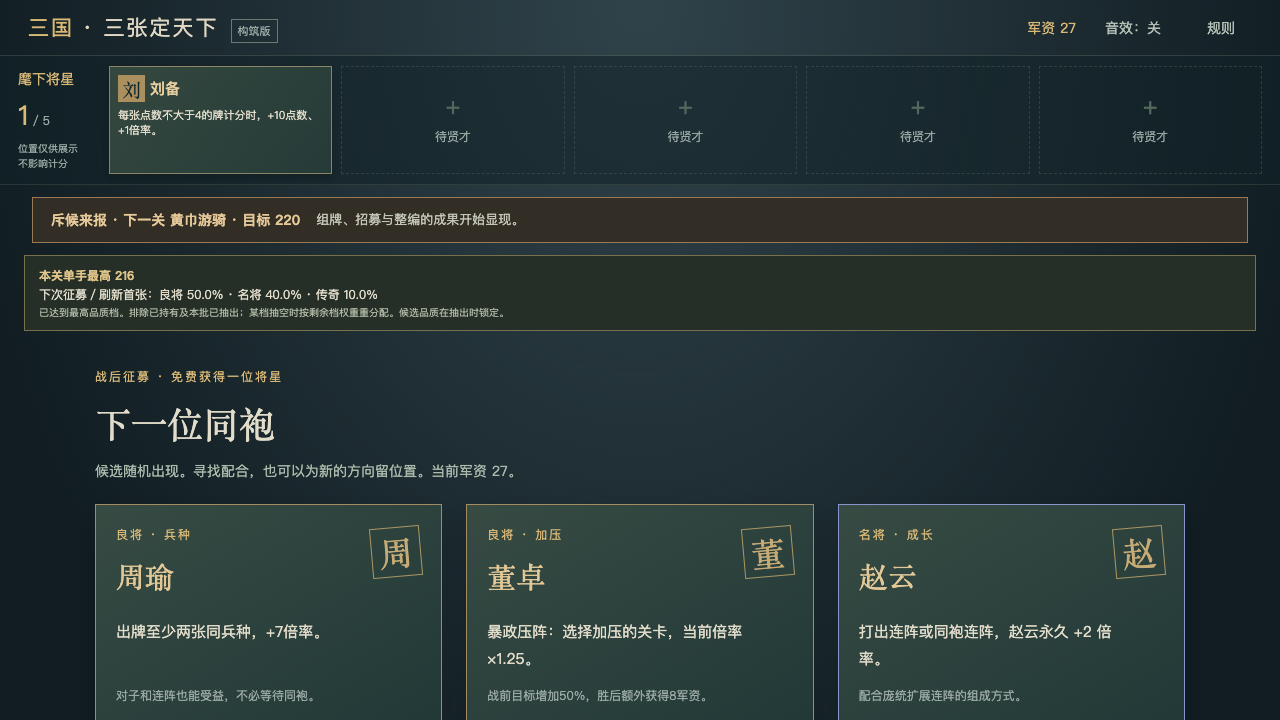
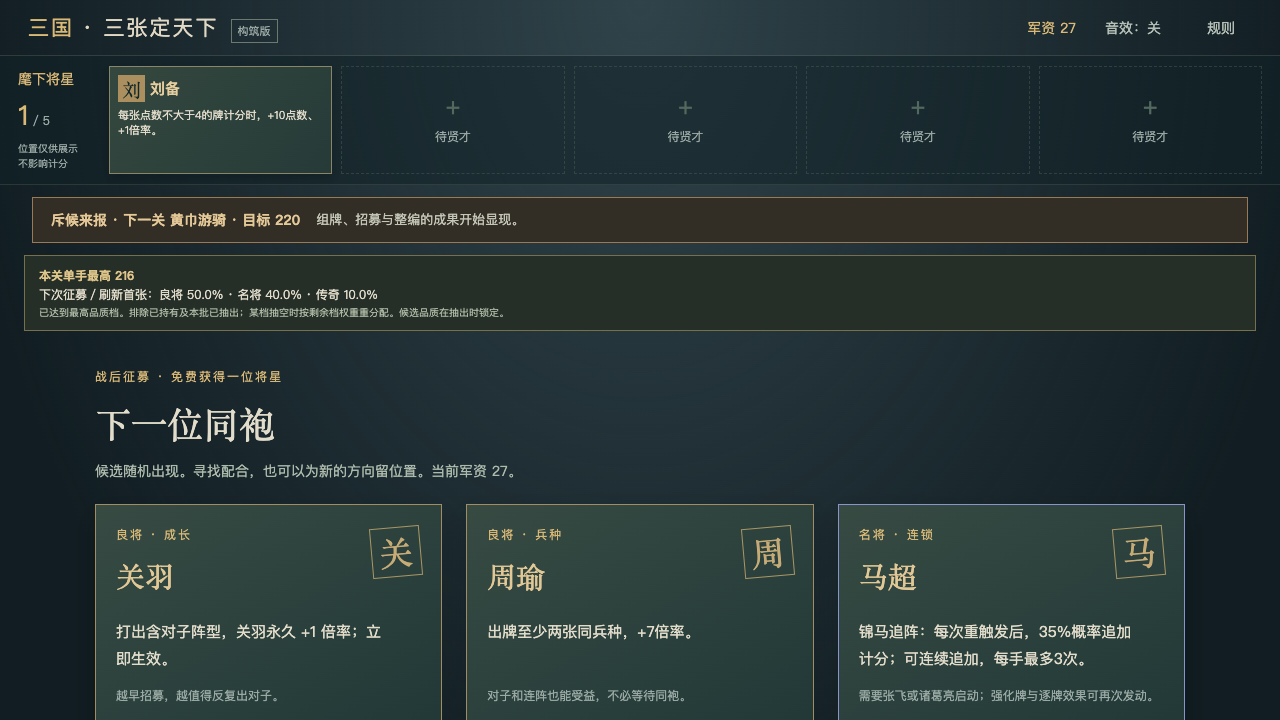
feat: create three build engines

diff --git a/tests/forge.test.ts b/tests/forge.test.ts
@@ -1,14 +1,15 @@
 import {test} from 'node:test';
 import assert from 'node:assert/strict';
 import {newForge,forgeAction,previewForge,forgeView,isForgeState,loadForge,saveForge,copy,type ForgeState,type ForgeAction,type ArmyCard} from '@three-card/core';
-import {COMPANIONS,COMPANION_IDS,RARITY_NAMES,STAGES,type CompanionId} from '@three-card/content';
+import {ALL_COMPANION_IDS,COMPANIONS,COMPANION_IDS,RARITY_NAMES,STAGES,type CompanionId} from '@three-card/content';
 const act=(s:ForgeState,a:Omit<ForgeAction,'seq'>)=>{const r=forgeAction(s,{...a,seq:s.seq});assert.equal(r.error,undefined);assert.ok(isForgeState(r.state),`invalid after ${a.type} ${r.state.phase}`);return r.state;};
 function fixture(ids:CompanionId[],cards:ArmyCard[]){let s=newForge('fixture');s.phase='prepare';s.companions=ids.map(id=>({id,growth:0}));s=act(s,{type:'begin'});for(const c of cards){const old=s.army.find(x=>x.id===c.id)!;Object.assign(old,c);}s.hand=cards.map(c=>c.id);s.draw=s.army.filter(c=>!s.hand.includes(c.id)).map(c=>c.id);s.discard=[];return s;}
 const c=(id:string,rank:number,suit:ArmyCard['suit']='spear',bonus=0):ArmyCard=>({id,rank,suit,bonus});
 const pair=[c('spear-7',7),c('cavalry-7',7,'cavalry'),c('bow-2',2,'bow')];
 const straight=[c('spear-1',1),c('cavalry-2',2,'cavalry'),c('bow-3',3,'bow')];
-test('22 distinct components and growth/retrigger compose exactly',()=>{assert.equal(COMPANION_IDS.length,22);const s=fixture(['guanyu','zhangfei','huangzhong','blade'],pair),ids=s.hand;const before=copy(s);const p=previewForge(s,ids);assert.equal(p.chips,77);assert.equal(p.mult,9);assert.equal(p.total,693);assert.deepEqual(s,before);assert.deepEqual(previewForge(s,ids),p);const next=act(s,{type:'play',ids});assert.equal(next.companions[0].growth,1);assert.equal(next.result?.total,693);assert.equal(next.hands,3);assert.equal(forgeAction(next,{seq:s.seq,type:'play',ids}).state,next);});
-test('all 22 stable entries are generals with unified rarity names',()=>{const names=Object.values(COMPANIONS).map(c=>c.name);assert.equal(new Set(names).size,22);assert.deepEqual(COMPANION_IDS.map(id=>COMPANIONS[id].name),['马超','陆逊','关羽','张飞','刘备','周瑜','赵云','黄忠','诸葛亮','曹操','孙权','吕布','貂蝉','司马懿','太史慈','张辽','公孙瓒','庞统','董卓','鲁肃','荀彧','孙策']);assert.deepEqual(RARITY_NAMES,{common:'良将',rare:'名将',legendary:'传奇'});});
+test('stable legacy effects still compose exactly',()=>{assert.equal(ALL_COMPANION_IDS.length,22);const s=fixture(['guanyu','zhangfei','huangzhong','blade'],pair),ids=s.hand;const before=copy(s);const p=previewForge(s,ids);assert.equal(p.chips,77);assert.equal(p.mult,9);assert.equal(p.total,693);assert.deepEqual(s,before);assert.deepEqual(previewForge(s,ids),p);const next=act(s,{type:'play',ids});assert.equal(next.companions[0].growth,1);assert.equal(next.result?.total,693);assert.equal(next.hands,3);assert.equal(forgeAction(next,{seq:s.seq,type:'play',ids}).state,next);});
+test('12 active generals form three engines while all 22 stable ids remain loadable',()=>{const names=Object.values(COMPANIONS).map(c=>c.name);assert.equal(new Set(names).size,22);assert.equal(COMPANION_IDS.length,12);assert.deepEqual(COMPANION_IDS.map(id=>COMPANIONS[id].name),['关羽','张飞','马超','陆逊','刘备','诸葛亮','曹操','荀彧','周瑜','貂蝉','孙策','赵云']);assert.deepEqual(RARITY_NAMES,{common:'良将',rare:'名将',legendary:'传奇'});});
+test('three complete engines prefer different hands from the same six cards',()=>{const hand=['spear-8','cavalry-8','scheme-1','scheme-4','scheme-7','bow-2'],best=(ids:CompanionId[])=>{const s=newForge('engine');s.phase='battle';s.companions=ids.map(id=>({id,growth:0}));s.hand=hand;s.draw=s.army.filter(c=>!hand.includes(c.id)).map(c=>c.id);let pick:string[]=[],score=-1;for(let i=0;i<4;i++)for(let j=i+1;j<5;j++)for(let k=j+1;k<6;k++){const chosen=[hand[i],hand[j],hand[k]],total=previewForge(s,chosen).total;if(total>score){score=total;pick=chosen;}}return pick;};assert.deepEqual(best(['guanyu','zhangfei','pursuit','chain']),['spear-8','cavalry-8','scheme-7']);assert.deepEqual(best(['liubei','zhugeliang','caocao','abacus']),['scheme-1','scheme-4','bow-2']);assert.deepEqual(best(['zhouyu','diaochan','oath','zhaoyun']),['scheme-1','scheme-4','scheme-7']);});
 test('low-card effects repeat on last card, once per scoring event',()=>{const s=fixture(['liubei','zhugeliang'],straight);const p=previewForge(s,s.hand);assert.equal(p.chips,49);assert.equal(p.mult,7);assert.equal(p.total,343);});
 test('straight growth and flexible sequence rules',()=>{const s=fixture(['zhaoyun','scroll'],[c('spear-1',1),c('cavalry-3',3,'cavalry'),c('bow-5',5,'bow')]);assert.equal(previewForge(s,s.hand).category,2);assert.equal(previewForge(s,s.hand).growth.zhaoyun,2);s.companions[0].growth=4;assert.equal(previewForge(s,s.hand).growth.zhaoyun,6);});
 test('component display order cannot change additive and multiplicative result',()=>{const s=fixture(['zhouyu','oath'],[c('spear-1',1),c('spear-4',4),c('spear-8',8)]),reversed=copy(s);reversed.companions.reverse();assert.equal(previewForge(s,s.hand).total,previewForge(reversed,reversed.hand).total);});
@@ -21,9 +22,9 @@ test('pressure, public boss rules and last-hand victory precedence',()=>{let s=n
 });
 test('zero hands below target loses after showing result',()=>{let s=fixture([],straight);s.hands=1;s.target=9999;s=act(s,{type:'play',ids:s.hand});assert.equal(s.phase,'result');s=act(s,{type:'next'});assert.equal(s.phase,'defeat');});
 test('every permanent edit survives next stage with unique physical IDs',()=>{
- for(const edit of ['copy','remove','rank','enhance','suit','level'] as const){let s=newForge('edit');s.phase='forge';const before=copy(s.army);s=act(s,{type:'edit',edit,cardId:'spear-1',suit:'bow',category:1});assert.equal(s.phase,'shop');if(edit==='copy'){assert.equal(s.army.length,37);assert.equal(new Set(s.army.map(c=>c.id)).size,37);}if(edit==='remove')assert.equal(s.army.length,35);if(edit==='rank')assert.equal(s.army[0].rank,3);if(edit==='enhance')assert.equal(s.army[0].bonus,12);if(edit==='suit')assert.equal(s.army[0].suit,'bow');if(edit==='level')assert.equal(s.levels[1],1);const after=copy(s.army);s=act(s,{type:'depart'});s=act(s,{type:'begin'});assert.deepEqual(s.army,after);if(edit!=='level')assert.notDeepEqual(s.army,before);}
+ for(const edit of ['copy','remove','rank','enhance','suit','level'] as const){let s=newForge('edit');s.phase='forge';s.pendingEdit=edit;const before=copy(s.army);s=act(s,{type:'edit',edit,cardId:'spear-1',suit:'bow',category:1});assert.equal(s.phase,'shop');if(edit==='copy'){assert.equal(s.army.length,37);assert.equal(new Set(s.army.map(c=>c.id)).size,37);}if(edit==='remove')assert.equal(s.army.length,35);if(edit==='rank')assert.equal(s.army[0].rank,3);if(edit==='enhance')assert.equal(s.army[0].bonus,12);if(edit==='suit')assert.equal(s.army[0].suit,'bow');if(edit==='level')assert.equal(s.levels[1],1);const after=copy(s.army);s=act(s,{type:'depart'});s=act(s,{type:'begin'});assert.deepEqual(s.army,after);if(edit!=='level')assert.notDeepEqual(s.army,before);}
 });
-test('invalid edit is atomic, copy preserves enhancement and capacity limits',()=>{let s=newForge('edit');s.phase='forge';s.army[0].bonus=24;const bad=forgeAction(s,{seq:0,type:'edit',edit:'suit',cardId:'spear-1',suit:'spear'});assert.equal(bad.state,s);s=act(s,{type:'edit',edit:'copy',cardId:'spear-1'});assert.equal(s.army.at(-1)?.bonus,24);s.phase='forge';s.army=s.army.slice(0,12);assert.equal(forgeAction(s,{seq:s.seq,type:'edit',edit:'remove',cardId:s.army[0].id}).state,s);});
+test('invalid edit is atomic, copy preserves enhancement and capacity limits',()=>{let s=newForge('edit');s.phase='forge';s.army[0].bonus=24;s.pendingEdit='suit';const bad=forgeAction(s,{seq:0,type:'edit',edit:'suit',cardId:'spear-1',suit:'spear'});assert.equal(bad.state,s);s.pendingEdit='copy';s=act(s,{type:'edit',edit:'copy',cardId:'spear-1'});assert.equal(s.army.at(-1)?.bonus,24);s.phase='forge';s.pendingEdit='remove';s.army=s.army.slice(0,12);assert.equal(forgeAction(s,{seq:s.seq,type:'edit',edit:'remove',cardId:s.army[0].id}).state,s);});
 test('recruit capacity, explicit replacement, sell growth and refresh costs',()=>{let s=newForge('market');s.phase='recruit';s.recruits=['guanyu'];s.companions=['liubei','zhouyu','sunquan','caocao','horse'].map(id=>({id:id as CompanionId,growth:0}));assert.equal(forgeAction(s,{seq:0,type:'recruit',id:'guanyu'}).state,s);s=act(s,{type:'recruit',id:'guanyu',replace:'horse'});s=act(s,{type:'edit',id:'skip'});s.gold=40;s.companions.find(c=>c.id==='guanyu')!.growth=8;s=act(s,{type:'sell',id:'guanyu'});assert.equal(s.gold,45);assert.equal(s.companions.length,4);s=act(s,{type:'refresh'});assert.equal(s.gold,42);assert.equal(s.refreshes,1);s=act(s,{type:'refresh'});assert.equal(s.gold,38);s.gold=0;assert.equal(forgeAction(s,{seq:s.seq,type:'buy',id:s.offers[0].id}).state,s);});
 test('new save namespace restores rewards and stable former treasure ids without touching v1',()=>{const map=new Map<string,string>([['three-card:v1:0','old-save']]);const storage={get:(k:string)=>map.get(k)??null,set:(k:string,v:string)=>{map.set(k,v);}};let s=newForge('save');saveForge(storage,s);const old=copy(s);s=act(s,{type:'starter',id:'liubei'});s.companions=['pursuit','chain','blade','horse','granary'].map(id=>({id:id as CompanionId,growth:0}));saveForge(storage,s);assert.deepEqual(loadForge(storage).state,s);assert.deepEqual(loadForge(storage).state?.companions.map(c=>COMPANIONS[c.id].name),['马超','陆逊','太史慈','公孙瓒','鲁肃']);map.set('three-card:forge:v8:1','broken');assert.deepEqual(loadForge(storage).state,old);assert.ok(loadForge(storage).notice);assert.equal(map.get('three-card:v1:0'),'old-save');const broken=copy(s) as any;broken.army[1].id=broken.army[0].id;assert.equal(isForgeState(broken),false);broken.contentVersion='0.1.0';assert.equal(isForgeState(broken),false);});
 test('replay reproduces draws, offers and scoring; view excludes future order',()=>{let a=newForge('repeat'),b=newForge('repeat');for(const cmd of [{type:'starter',id:'guanyu'},{type:'begin'}] as Omit<ForgeAction,'seq'>[]){a=act(a,cmd);b=act(b,cmd);}const ids=a.hand.slice(0,3);a=act(a,{type:'play',ids});b=act(b,{type:'play',ids});assert.deepEqual(a,b);assert.equal('rng' in forgeView(a),false);assert.equal('draw' in forgeView(a),false);});

diff --git a/tests/forge-random-edit.test.ts b/tests/forge-random-edit.test.ts
@@ -1,63 +1,16 @@
 import {test} from 'node:test';
 import assert from 'node:assert/strict';
 import {copy,forgeAction,isForgeState,newForge,type ForgeAction,type ForgeState} from '@three-card/core';
+import type {ForgeEdit} from '@three-card/content';
 
-const act=(state:ForgeState,action:Omit<ForgeAction,'seq'>)=>{
- const result=forgeAction(state,{...action,seq:state.seq});
- assert.equal(result.error,undefined);
- assert.ok(isForgeState(result.state));
- return result.state;
-};
-
+const act=(state:ForgeState,action:Omit<ForgeAction,'seq'>)=>{const result=forgeAction(state,{...action,seq:state.seq});assert.equal(result.error,undefined);assert.ok(isForgeState(result.state));return result.state;};
 function forge(seed:string){const state=newForge(seed);state.phase='forge';return state;}
+function resolve(state:ForgeState){const edit=state.pendingEdit!;if(edit==='level')return act(state,{type:'edit',edit,category:2});const card=state.army.find(c=>edit!=='rank'||c.rank<9)!;return act(state,{type:'edit',edit,cardId:card.id,...edit==='suit'?{suit:card.suit==='scheme'?'spear':'scheme'}:{}});}
 
-test('random post-battle edit is deterministic and applies exactly one positive result',()=>{
- const seen=new Set<string>();
- for(let i=0;i<400;i++){
-  const before=forge(`random-edit-${i}`),snapshot=copy(before);
-  const after=act(before,{type:'random-edit'}),again=act(copy(snapshot),{type:'random-edit'});
-  assert.deepEqual(after,again);
-  assert.equal(after.phase,'shop');
-  assert.equal(after.stats.edits,1);
-  assert.ok(after.lastEdit);
-  assert.equal(after.offers.length,3);
-  const kind=after.lastEdit!.split('：')[0];seen.add(kind);
-  const oldCards=new Map(snapshot.army.map(c=>[c.id,c]));
-  const changedCards=after.army.filter(c=>{const old=oldCards.get(c.id);return !old||old.rank!==c.rank||old.bonus!==c.bonus||old.suit!==c.suit;});
-  const levelGain=after.levels.reduce((a,b)=>a+b,0)-snapshot.levels.reduce((a,b)=>a+b,0);
-  if(kind==='军师募兵'){assert.equal(after.army.length,snapshot.army.length+1);assert.equal(changedCards.length,1);assert.ok(changedCards[0].id.startsWith('copy-'));assert.equal(levelGain,0);}
-  if(kind==='军师练兵'){assert.equal(after.army.length,snapshot.army.length);assert.equal(changedCards.length,1);assert.ok(changedCards[0].rank>oldCards.get(changedCards[0].id)!.rank);assert.equal(levelGain,0);}
-  if(kind==='军师精锐'){assert.equal(after.army.length,snapshot.army.length);assert.equal(changedCards.length,1);assert.equal(changedCards[0].bonus,oldCards.get(changedCards[0].id)!.bonus+12);assert.equal(levelGain,0);}
-  if(kind==='军师研习'){assert.equal(after.army.length,snapshot.army.length);assert.equal(changedCards.length,0);assert.equal(levelGain,1);}
- }
- assert.deepEqual([...seen].sort(),['军师募兵','军师研习','军师精锐','军师练兵'].sort());
-});
+test('random edit reveals one saved type, then player target applies exactly once',()=>{const seen=new Set<ForgeEdit>();for(let i=0;i<500;i++){const before=forge(`target-edit-${i}`),revealed=act(before,{type:'random-edit'}),again=act(copy(before),{type:'random-edit'});assert.deepEqual(revealed,again);assert.equal(revealed.phase,'forge');assert.ok(revealed.pendingEdit);assert.equal(revealed.stats.edits,0);seen.add(revealed.pendingEdit!);const after=resolve(revealed);assert.equal(after.phase,'shop');assert.equal(after.pendingEdit,null);assert.equal(after.stats.edits,1);assert.ok(after.lastEdit);assert.equal(after.offers.length,3);}assert.deepEqual([...seen].sort(),['remove','copy','rank','enhance','suit','level'].sort());});
 
-test('ineligible edit types leave the random pool and skip applies no edit',()=>{
- let full=forge('full-ranks');
- full.army=Array.from({length:60},(_,i)=>({...full.army[i%full.army.length],id:`full-${i}`,rank:9}));
- const before=copy(full),after=act(full,{type:'random-edit'});
- assert.equal(after.army.length,60);
- assert.ok(after.lastEdit?.startsWith('军师精锐')||after.lastEdit?.startsWith('军师研习'));
- assert.ok(after.army.some((c,i)=>c.bonus>before.army[i].bonus)||after.levels.some((n,i)=>n>before.levels[i]));
+test('revealed edit rejects reroll, skip and mismatched action atomically',()=>{const revealed=act(forge('locked-edit'),{type:'random-edit'});for(const action of [{type:'random-edit'},{type:'edit',id:'skip'},{type:'edit',edit:revealed.pendingEdit==='level'?'copy':'level',category:1,cardId:revealed.army[0].id}] as Omit<ForgeAction,'seq'>[]){const result=forgeAction(revealed,{...action,seq:revealed.seq});assert.ok(result.error);assert.equal(result.state,revealed);}});
 
- const skipped=forge('skip-edit');
- const result=act(skipped,{type:'edit',id:'skip'}),replayed=act(copy(skipped),{type:'edit',id:'skip'});
- assert.deepEqual(result,replayed);
- assert.equal(result.gold,skipped.gold+3);
- assert.equal(result.stats.edits,0);
- assert.equal(result.lastEdit,null);
-});
+test('ineligible types leave reveal pool and skipping before reveal gives gold',()=>{let full=forge('full-ranks');full.army=Array.from({length:60},(_,i)=>({...full.army[i%full.army.length],id:`full-${i}`,rank:9}));for(let i=0;i<100;i++){const state=copy(full);state.seed=`full-${i}`;state.rng=newForge(state.seed).rng;const revealed=act(state,{type:'random-edit'});assert.ok(!['copy','rank'].includes(revealed.pendingEdit!));}const skipped=act(forge('skip-edit'),{type:'edit',id:'skip'});assert.equal(skipped.phase,'shop');assert.equal(skipped.gold,15);assert.equal(skipped.stats.edits,0);});
 
-test('random edit rejects wrong phase and duplicate sequence atomically',()=>{
- const state=newForge('invalid-random-edit'),snapshot=copy(state);
- const invalid=forgeAction(state,{seq:state.seq,type:'random-edit'});
- assert.ok(invalid.error);
- assert.equal(invalid.state,state);
- assert.deepEqual(state,snapshot);
-
- const first=act(forge('duplicate-random-edit'),{type:'random-edit'});
- const duplicate=forgeAction(first,{seq:first.seq-1,type:'random-edit'});
- assert.ok(duplicate.error);
- assert.equal(duplicate.state,first);
-});
+test('old v8 state without pendingEdit remains loadable',()=>{const state:any=newForge('old-state');delete state.pendingEdit;assert.equal(isForgeState(state),true);assert.equal(state.pendingEdit,null);});

diff --git a/tests/browser/forge.spec.ts b/tests/browser/forge.spec.ts
@@ -3,13 +3,14 @@ import {test,expect,type Page} from '@playwright/test';
 import type {ForgeAction,ForgeView} from '@three-card/core';
 import {forgeStrategy,bestForgeHand} from '../../tools/forge-strategy';
 const read=(page:Page)=>page.evaluate(()=>JSON.parse((window as any).render_game_to_text())) as Promise<{home:boolean;paused:boolean;view:ForgeView}>;
-async function click(page:Page,action:string){await page.locator(`[data-action="${action}"]`).click();if(!action.startsWith('card:')&&!action.startsWith('edit-card:'))await page.waitForTimeout(180);}
+async function click(page:Page,action:string){const immediate=action.startsWith('card:');if(!immediate)await page.waitForTimeout(180);await page.locator(`[data-action="${action}"]`).click();if(!immediate)await page.waitForTimeout(180);}
 async function begin(page:Page,seed:string,starter='liubei'){await page.goto('http://127.0.0.1:4173');await page.locator('#seed').fill(seed);await click(page,'new');await click(page,'starter:'+starter);await click(page,'begin:normal');}
 async function uiAction(page:Page,a:Omit<ForgeAction,'seq'>){
  if((a.type==='play'||a.type==='discard')){for(const id of a.ids!)await click(page,'card:'+id);await click(page,a.type);}
  else if(a.type==='begin')await click(page,'begin:normal');
  else if(a.type==='starter')await click(page,'starter:'+a.id);
  else if(a.type==='recruit'||a.type==='buy'){await click(page,a.type+':'+a.id);if(a.replace)await click(page,'replace:'+a.replace);}
+ else if(a.type==='edit'){if(a.edit==='level')await click(page,'apply-level:'+a.category);else if(a.edit==='suit'){await click(page,'edit-card:'+a.cardId);await click(page,`apply-suit:${a.cardId}:${a.suit}`);}else await click(page,'edit-card:'+a.cardId);}
  else {if(a.type==='bank'&&await page.locator('[data-action=skip-animation]').count())await click(page,'skip-animation');await click(page,a.type);}
 }
 test('build UI, preview parity, one random edit and independent resume',async({page})=>{
@@ -17,7 +18,7 @@ test('build UI, preview parity, one random edit and independent resume',async({p
  let v=(await read(page)).view;const best=bestForgeHand(v);for(const id of best.ids)await click(page,'card:'+id);await expect(page.locator('.total b')).toHaveText(new Intl.NumberFormat('zh-CN',{maximumFractionDigits:2}).format(best.score));await expect(page.locator('.point-breakdown')).toContainText('阵牌');await expect(page.locator('.point-breakdown')).toContainText('重触发');const pointSum=Number(await page.locator('.point-breakdown').getAttribute('data-points-sum')),displayedPoints=Number((await page.locator('.equation span').first().locator('b').innerText()).replaceAll(',',''));expect(pointSum).toBe(displayedPoints);await page.screenshot({path:'docs/evidence/forge-battle-1440.png'});
  await page.setViewportSize({width:1280,height:720});expect(await page.locator('[data-action=play]').evaluate(el=>el.getBoundingClientRect().bottom<=innerHeight)).toBe(true);expect(await page.evaluate(()=>document.documentElement.scrollWidth<=innerWidth)).toBe(true);await page.screenshot({path:'docs/evidence/forge-battle-1280.png'});await click(page,'play');expect((await read(page)).view.result!.total).toBe(best.score);
  for(let n=0;n<20;n++){v=(await read(page)).view;if(v.phase==='recruit')break;await uiAction(page,counterplayStrategy(v,'liubei'));}v=(await read(page)).view;expect(v.phase).toBe('recruit');const before=v;await page.reload();await click(page,'continue');expect((await read(page)).view).toEqual(before);await page.screenshot({path:'docs/evidence/forge-recruit.png'});
- await click(page,'recruit:'+v.recruits[0]);expect(await page.locator('[data-action=random-edit]').count()).toBe(1);expect(await page.locator('.edit-tabs').count()).toBe(0);await page.screenshot({path:'docs/evidence/forge-random-edit.png'});const beforeEdit=(await read(page)).view;await click(page,'random-edit');v=(await read(page)).view;expect(v.phase).toBe('shop');expect(v.stats.edits).toBe(beforeEdit.stats.edits+1);expect(v.lastEdit).toBeTruthy();await expect(page.locator('.random-edit-result')).toContainText(v.lastEdit!);await page.screenshot({path:'docs/evidence/forge-shop.png'});const editedArmy=structuredClone(v.army),editedLevels=[...v.levels];await click(page,'depart');await click(page,'begin:normal');v=(await read(page)).view;expect(v.army).toEqual(editedArmy);expect(v.levels).toEqual(editedLevels);expect(v.lastEdit).toBeNull();expect(errors).toEqual([]);
+ await click(page,'recruit:'+v.recruits[0]);expect(await page.locator('[data-action=random-edit]').count()).toBe(1);expect(await page.locator('.edit-tabs').count()).toBe(0);await page.screenshot({path:'docs/evidence/forge-random-edit.png'});const beforeEdit=(await read(page)).view;await click(page,'random-edit');v=(await read(page)).view;expect(v.phase).toBe('forge');expect(v.pendingEdit).toBeTruthy();expect(v.stats.edits).toBe(beforeEdit.stats.edits);await page.screenshot({path:'docs/evidence/forge-edit-target.png'});await uiAction(page,forgeStrategy(v,'liubei'));v=(await read(page)).view;expect(v.phase).toBe('shop');expect(v.stats.edits).toBe(beforeEdit.stats.edits+1);expect(v.lastEdit).toBeTruthy();await expect(page.locator('.random-edit-result')).toContainText(v.lastEdit!);await page.screenshot({path:'docs/evidence/forge-shop.png'});const editedArmy=structuredClone(v.army),editedLevels=[...v.levels];await click(page,'depart');await click(page,'begin:normal');v=(await read(page)).view;expect(v.army).toEqual(editedArmy);expect(v.levels).toEqual(editedLevels);expect(v.lastEdit).toBeNull();expect(errors).toEqual([]);
 });
 test('eight-stage campaign uses public UI and reaches victory',async({page})=>{
  test.setTimeout(120000);await begin(page,'forge-0');let replaced=false;for(let n=0;n<200;n++){const v=(await read(page)).view;if(['victory','defeat'].includes(v.phase))break;const a=counterplayStrategy(v,'liubei');if(a.replace)replaced=true;await uiAction(page,a);}expect((await read(page)).view.phase).toBe('victory');expect((await read(page)).view.stats.cleared).toBe(8);await page.screenshot({path:'docs/evidence/forge-victory.png'});console.log('Explicit replacement exercised:',replaced);

diff --git a/tools/smoke-forge.ts b/tools/smoke-forge.ts
@@ -10,8 +10,8 @@ const userData=await mkdtemp(path.join(tmpdir(),'three-card-forge-'));
 const launch=()=>electron.launch({...(process.env.THREE_CARD_EXECUTABLE?{executablePath:process.env.THREE_CARD_EXECUTABLE,args:[]}:{args:['apps/desktop/main.cjs']}),env:{...process.env,THREE_CARD_USER_DATA:userData}});
 let app=await launch();let page=await app.firstWindow();const errors:string[]=[];page.on('pageerror',e=>errors.push(e.message));
 const read=()=>page.evaluate(()=>JSON.parse((window as any).render_game_to_text()).view) as Promise<ForgeView>;
-const click=async(action:string)=>{await page.locator(`[data-action="${action}"]`).click();if(!action.startsWith('card:'))await page.waitForTimeout(180);};
-async function act(a:Omit<ForgeAction,'seq'>){if((a.type==='play'||a.type==='discard')){for(const id of a.ids!)await click('card:'+id);await click(a.type);}else if(a.type==='begin')await click('begin:normal');else if(a.type==='recruit'||a.type==='buy'){await click(a.type+':'+a.id);if(a.replace)await click('replace:'+a.replace);}else{if(a.type==='bank'&&await page.locator('[data-action=skip-animation]').count())await click('skip-animation');await click(a.type);}}
+const click=async(action:string)=>{const resume=page.locator('[data-action="resume"]');if(action!=='resume'&&await resume.isVisible().catch(()=>false)){await resume.click();await page.waitForTimeout(180);}const immediate=action.startsWith('card:');if(!immediate)await page.waitForTimeout(180);await page.locator(`[data-action="${action}"]`).click();if(!immediate)await page.waitForTimeout(180);};
+async function act(a:Omit<ForgeAction,'seq'>){if((a.type==='play'||a.type==='discard')){for(const id of a.ids!)await click('card:'+id);await click(a.type);}else if(a.type==='begin')await click('begin:normal');else if(a.type==='recruit'||a.type==='buy'){await click(a.type+':'+a.id);if(a.replace)await click('replace:'+a.replace);}else if(a.type==='edit'){if(a.edit==='level')await click('apply-level:'+a.category);else if(a.edit==='suit'){await click('edit-card:'+a.cardId);await click(`apply-suit:${a.cardId}:${a.suit}`);}else await click('edit-card:'+a.cardId);}else{if(a.type==='bank'&&await page.locator('[data-action=skip-animation]').count())await click('skip-animation');await click(a.type);}}
 try{
  await page.waitForSelector('#seed');
  await page.locator('#seed').fill('forge-0');await click('new');await click('starter:liubei');await click('begin:normal');
@@ -23,7 +23,7 @@ try{
  assert.equal((await read()).phase,'victory');await page.screenshot({path:'docs/evidence/forge-desktop-victory.png'});
  const completed=await read();await click('extend');
  for(let i=0;i<40;i++){const v=await read();if(v.phase==='battle')break;await act(counterplayStrategy(v,'liubei'));}
- const challenge=await read();assert.equal(challenge.challenge,1);assert.equal(challenge.stats.cleared,8);assert.equal(challenge.stats.edits,completed.stats.edits+1);for(const card of completed.army){const kept=challenge.army.find(c=>c.id===card.id);assert.ok(kept);assert.equal(kept.suit,card.suit);assert.ok(kept.rank>=card.rank);assert.ok(kept.bonus>=card.bonus);}assert.ok(challenge.levels.every((level,i)=>level>=completed.levels[i]));assert.ok(challenge.stats.best>=completed.stats.best);await page.screenshot({path:'docs/evidence/burst-native-endless.png'});
+ const challenge=await read();assert.equal(challenge.challenge,1);assert.equal(challenge.stats.cleared,8);assert.equal(challenge.stats.edits,completed.stats.edits+1);let missing=0,suitChanges=0;for(const card of completed.army){const kept=challenge.army.find(c=>c.id===card.id);if(!kept){missing++;continue;}if(kept.suit!==card.suit)suitChanges++;assert.ok(kept.rank>=card.rank);assert.ok(kept.bonus>=card.bonus);}assert.ok(missing<=1);assert.ok(suitChanges<=1);assert.ok(Math.abs(challenge.army.length-completed.army.length)<=1);assert.ok(challenge.levels.every((level,i)=>level>=completed.levels[i]));assert.ok(challenge.stats.best>=completed.stats.best);await page.screenshot({path:'docs/evidence/burst-native-endless.png'});
  await act({type:'play',ids:bestForgeHand(challenge).ids});if(await page.locator('[data-action=skip-animation]').count())await click('skip-animation');await click('gamble');const wagered=await read();assert.ok(['win','loss'].includes(wagered.settlement));await page.screenshot({path:'docs/evidence/burst-native-wager.png'});
  await app.close();app=await launch();page=await app.firstWindow();page.on('pageerror',e=>errors.push(e.message));await page.waitForSelector('[data-action=continue]');await click('continue');assert.deepEqual(await read(),wagered);assert.equal(await page.locator('[data-action=gamble]').count(),0);assert.deepEqual(errors,[]);
  await writeFile('docs/evidence/forge-v07-desktop-smoke.json',JSON.stringify({version:'0.7.0',saveContentVersion:'0.7.0',schemaVersion:8,platform:process.platform,arch:process.arch,packaged:!!process.env.THREE_CARD_EXECUTABLE,offlineLocalPage:true,rendererNodeDisabled:true,minimizePause:true,restartRestore:true,fullCampaignVictory:true,endlessContinuation:true,wagerSettledAndRestored:true,randomPostBattleEdit:true,simpleScoring:true,zhangJiaoAnimation:true,errors},null,2)+'\n');console.log('Forge desktop: current local build, full campaign, pause and restart restore passed.');

diff --git a/packages/content/src/forge.ts b/packages/content/src/forge.ts
@@ -26,7 +26,9 @@ export const COMPANIONS={
  oath:{name:'孙策',mark:'策',role:'爆发',price:12,text:'江东同袍：三张牌同兵种，当前倍率 ×1.8。',hint:'和周瑜、貂蝉及改编兵种相互配合。',effect:'flush-mult'},
 } as const;
 export type CompanionId=keyof typeof COMPANIONS;
-export const COMPANION_IDS=Object.keys(COMPANIONS) as CompanionId[];
+export const ALL_COMPANION_IDS=Object.keys(COMPANIONS) as CompanionId[];
+/** New runs only: three four-general engines. Other stable IDs remain loadable for v8 saves. */
+export const COMPANION_IDS:CompanionId[]=['guanyu','zhangfei','pursuit','chain','liubei','zhugeliang','caocao','abacus','zhouyu','diaochan','oath','zhaoyun'];
 export const STARTERS:CompanionId[]=['guanyu','zhouyu','liubei'];
 export const STAGES=[
  {name:'初出茅庐',enemy:'黄巾前哨',target:100,rule:'none',text:'四次出牌内积累足够攻势。'},
@@ -39,7 +41,7 @@ export const STAGES=[
  {name:'苍天已死',enemy:'张角',target:1900,rule:'last-stand',text:'终局张角：仅3次出牌。击破40%兵力后唤雷；出牌后手中未留下谋牌，攻势×0.6。'},
 ] as const;
 export type ForgeEdit='remove'|'copy'|'rank'|'enhance'|'suit'|'level';
-export const EDITS:Record<ForgeEdit,{name:string;text:string}>={remove:{name:'裁军',text:'永久删除一张牌，最低12张。'},copy:{name:'募兵',text:'复制一张牌，保留点数、兵种与强化。'},rank:{name:'练兵',text:'一张牌点数 +2，上限9。'},enhance:{name:'精锐',text:'一张牌每次计分额外 +12点数。'},suit:{name:'改编',text:'永久改变一张牌的兵种。'},level:{name:'研习',text:'指定牌型等级 +1：倍率 +1。'}};
+export const EDITS:Record<ForgeEdit,{name:string;text:string}>={remove:{name:'裁军',text:'选择一张牌永久删除，牌库最低12张。'},copy:{name:'募兵',text:'选择一张牌复制，保留点数、兵种与强化。'},rank:{name:'练兵',text:'选择一张未满9点的牌，点数 +2。'},enhance:{name:'精锐',text:'选择一张牌，使其每次计分额外 +12点数。'},suit:{name:'改编',text:'选择一张牌，再决定它的新兵种。'},level:{name:'研习',text:'选择一种阵型，使其倍率永久 +1。'}};
 
 export const BOSSES:Partial<Record<number,{name:string;title:string;mark:string;intro:string;defeated:string;phases:readonly {name:string;text:string;quote:string}[]}>>={
  3:{name:'张宝',title:'地公将军',mark:'地',intro:'雾锁祭坛，黄巾伏兵四起。',defeated:'地公坛破，疑阵尽散。',phases:[{name:'伏兵蔽日',text:'未换牌的这一手攻势×0.65；换牌可解除。',quote:'入我阵中，还想全身而退？'},{name:'移形疑阵',text:'连续相同牌型攻势×0.5；换牌不再解除减伤。',quote:'破得了伏兵，可识得我的疑阵？'}]},

diff --git a/tests/browser/boss.spec.ts b/tests/browser/boss.spec.ts
@@ -32,7 +32,7 @@ test('home demo enters a disposable built Zhang Jiao battle',async({page})=>{
  await page.getByRole('button',{name:'规则',exact:true}).click();await expect(page.locator('.formation-guide-row')).toHaveCount(6);await expect(page.locator('.formation-guide')).toContainText('同袍连阵');await expect(page.locator('.formation-guide')).toContainText('点数 × 6');await page.screenshot({path:'docs/evidence/formation-rules.png'});await page.waitForTimeout(180);await page.locator('[data-action=close]').click();await page.waitForTimeout(180);
  await expect(page.locator('[data-action=demo]')).toHaveText('连锁试玩 · 直达张角');await page.locator('[data-action=demo]').click();await page.waitForTimeout(180);
  await expect(page.locator('.demo-strip')).toContainText('马超35%追击');await expect(page.locator('[aria-label="张角首领战"]')).toBeVisible();await expect(page.locator('.band-card')).toHaveCount(5);await expect(page.locator('[data-boss-motion=idle]')).toBeVisible();await expect(page.locator('[data-action=prime]')).toHaveCount(0);await expect(page.locator('.momentum-panel')).toHaveCount(0);
- for(const id of ['spear-7','cavalry-7','bow-9'])await page.locator(`[data-action="card:${id}"]`).click();await expect(page.locator('.formation-definition')).toContainText('其中两张点数相同');await page.locator('[data-action=play]').click();await page.waitForTimeout(180);await page.locator('[data-action=skip-animation]').click();await expect(page.locator('.chain-tier.tier-0')).toContainText('未响 · 本手未追加');await page.screenshot({path:'docs/evidence/chain-feedback.png'});
+ for(const id of ['spear-7','cavalry-7','bow-9'])await page.locator(`[data-action="card:${id}"]`).click();await expect(page.locator('.formation-definition')).toContainText('其中两张点数相同');await page.locator('[data-action=play]').click();await page.waitForTimeout(180);await page.locator('[data-action=skip-animation]').click();await expect(page.locator('.chain-tier')).toContainText(/追击|连营|破军/);await page.screenshot({path:'docs/evidence/chain-feedback.png'});
  expect(await page.evaluate(()=>Object.keys(localStorage).filter(k=>k.includes('three-card:forge')).length)).toBe(0);
  await page.locator('[data-action=home]').click();await expect(page.locator('[data-action=continue]')).toHaveCount(0);
 });

diff --git a/tools/simulate-forge.ts b/tools/simulate-forge.ts
@@ -3,4 +3,4 @@ import {newForge,forgeAction,forgeView,isForgeState} from '@three-card/core';
 import {STARTERS,STAGES} from '@three-card/content';
 import {forgeStrategy} from './forge-strategy';
 const count=200;const results=STARTERS.map(starter=>{let wins=0,firstWin:string|null=null,firstLoss:string|null=null,best=0,steps=0;const failures=Array(8).fill(0);for(let i=0;i<count;i++){let s=newForge(`forge-${i}`);for(let n=0;n<250&&!['victory','defeat'].includes(s.phase);n++){const result=forgeAction(s,{...forgeStrategy(forgeView(s),starter),seq:s.seq});if(result.error)throw Error(result.error);s=result.state;if(!isForgeState(s))throw Error("invalid snapshot");steps++;}if(s.phase==='victory'){wins++;firstWin??=s.seed;}else if(s.phase==='defeat'){failures[s.stage]++;firstLoss??=s.seed;}else throw Error('non-terminating');best=Math.max(best,s.stats.best);}return{starter,runs:count,wins,winRate:wins/count,firstWin,firstLoss,best,meanActions:steps/count,failures};});
-writeFileSync('docs/evidence/forge-simulation.json',JSON.stringify({version:'0.7.0',targets:STAGES.map(s=>s.target),strategy:'Public-view greedy hand score; fixed starter-specific recruitment preference; accepts the random positive edit; no discards, no pressure. This is a smoke heuristic, not an optimal build or human win-rate estimate.',results},null,2)+'\n');console.table(results);
+writeFileSync('docs/evidence/forge-simulation.json',JSON.stringify({version:'0.7.0',targets:STAGES.map(s=>s.target),strategy:'Public-view greedy hand score; fixed starter-specific recruitment preference; accepts the revealed edit type and chooses its target; no discards, no pressure. This is a smoke heuristic, not an optimal build or human win-rate estimate.',results},null,2)+'\n');console.table(results);

diff --git a/tools/forge-strategy.ts b/tools/forge-strategy.ts
@@ -8,7 +8,13 @@ export function forgeStrategy(v:ForgeView,starter:CompanionId):Omit<ForgeAction,
  if(v.phase==='battle')return{type:'play',ids:bestForgeHand(v).ids};
  if(v.phase==='result')return{type:v.settlement==='pending'?'bank':'next'};
  if(v.phase==='recruit'){const id=sorted(v.recruits)[0];if(!id)return{type:'recruit',id:'skip'};if(v.companions.length<5)return{type:'recruit',id};const worst=sorted(v.companions.map(c=>c.id)).at(-1)!;return rank(id)<rank(worst)?{type:'recruit',id,replace:worst}:{type:'recruit',id:'skip'};}
- if(v.phase==='forge')return{type:'random-edit'};
+ if(v.phase==='forge'){
+  if(!v.pendingEdit)return{type:'random-edit'};
+  if(v.pendingEdit==='level')return{type:'edit',edit:'level',category:starter==='guanyu'?1:starter==='zhouyu'?3:0};
+  const ordered=[...v.army].sort((a,b)=>starter==='liubei'?a.rank-b.rank:b.rank-a.rank),card=v.pendingEdit==='remove'?ordered.at(-1)!:ordered.find(c=>v.pendingEdit!=='rank'||c.rank<9)!;
+  if(v.pendingEdit==='suit')return{type:'edit',edit:'suit',cardId:card.id,suit:card.suit==='scheme'?'spear':'scheme'};
+  return{type:'edit',edit:v.pendingEdit,cardId:card.id};
+ }
  if(v.phase==='shop'){
   const available=sorted(v.offers.filter(o=>!o.sold&&!v.companions.some(c=>c.id===o.id)&&v.gold>=COMPANIONS[o.id].price).map(o=>o.id));
   if(available.length){const id=available[0];if(v.companions.length<5)return{type:'buy',id};const worst=sorted(v.companions.map(c=>c.id)).at(-1)!;if(rank(id)<rank(worst))return{type:'buy',id,replace:worst};}

diff --git a/tools/write-forge-content.ts b/tools/write-forge-content.ts
@@ -1,3 +1,3 @@
 import {writeFileSync} from 'node:fs';
-import {COMPANIONS} from '@three-card/content';
-writeFileSync('docs/CONTENT.md','# 将星内容 v0.7\n\n22位常驻将星，共享5槽。开局可选关羽、周瑜、刘备；其余通过征募或商店获得。本文由运行配置生成。\n\n| 将星 | 定位 | 标价 | 战法 |\n|---|---|---:|---|\n'+Object.values(COMPANIONS).map(c=>`| ${c.name} | ${c.role} | ${c.price} | ${c.text} |`).join('\n')+'\n\n完整计分、经济、整编与关卡规则见 GAME_DESIGN.md。名称印章和牌面使用代码排版；当前像素素材位于 `apps/playtest/public/assets/`。\n');
+import {COMPANIONS,COMPANION_IDS} from '@three-card/content';
+writeFileSync('docs/CONTENT.md','# 将星内容 v0.7\n\n12位活跃将星，共享5槽。开局可选关羽、周瑜、刘备；其余通过征募或商店获得。旧存档中的其他人物仍可使用，但不会进入新奖励池。本文由运行配置生成。\n\n| 将星 | 定位 | 标价 | 战法 |\n|---|---|---:|---|\n'+COMPANION_IDS.map(id=>COMPANIONS[id]).map(c=>`| ${c.name} | ${c.role} | ${c.price} | ${c.text} |`).join('\n')+'\n\n三套发动机：关羽／张飞／马超／陆逊组成对子追击；刘备／诸葛亮／曹操／荀彧组成低点精兵；周瑜／貂蝉／孙策／赵云组成同袍改编。完整规则见 GAME_DESIGN.md。\n');

diff --git a/docs/CONTENT.md b/docs/CONTENT.md
@@ -1,36 +1,26 @@
 # 将星内容 v0.7
 
-22位常驻将星，共享5槽。开局可选关羽、周瑜、刘备；其余通过征募或商店获得。本文由运行配置生成。
+新局只会获得12位活跃将星，共享5槽。开局可选关羽、周瑜、刘备；旧存档中的其他人物仍能显示和结算，但不会进入新奖励池。
 
 | 将星 | 定位 | 标价 | 战法 |
 |---|---|---:|---|
-| 马超 | 连锁 | 12 | 锦马追阵：每次重触发后，35%概率追加计分；可连续追加，每手最多3次。 |
-| 陆逊 | 连锁 | 16 | 火烧连营：每次追击成功，当前倍率 ×1.5。 |
 | 关羽 | 成长 | 10 | 打出含对子阵型，关羽永久 +1 倍率；立即生效。 |
 | 张飞 | 重触发 | 12 | 含对子时，第一张属于对子的牌额外计分一次。 |
+| 马超 | 连锁 | 12 | 锦马追阵：每次重触发后，35%概率追加计分；可连续追加，每手最多3次。 |
+| 陆逊 | 连锁 | 16 | 火烧连营：每次追击成功，当前倍率 ×1.5。 |
 | 刘备 | 逐牌 | 10 | 每张点数不大于4的牌计分时，+10点数、+1倍率。 |
-| 周瑜 | 兵种 | 10 | 出牌至少两张同兵种，+7倍率。 |
-| 赵云 | 成长 | 10 | 打出连阵或同袍连阵，赵云永久 +2 倍率。 |
-| 黄忠 | 逐牌 | 9 | 每张点数不小于7的牌计分时，+18点数。 |
 | 诸葛亮 | 重触发 | 14 | 最右侧出牌额外计分一次。 |
 | 曹操 | 经济 | 8 | 每次换牌获得2军资。 |
-| 孙权 | 杂兵 | 9 | 出牌包含三种不同兵种，+4倍率。 |
-| 吕布 | 爆发 | 12 | 打出三军同心，当前倍率 ×3。 |
-| 貂蝉 | 逐牌 | 10 | 每张谋牌计分时，+2倍率。 |
-| 司马懿 | 压轴 | 10 | 本关最后一次出牌，当前倍率 ×2。 |
-| 太史慈 | 逐牌 | 11 | 神亭酣战：每张点数不小于7的牌计分时，+2倍率。 |
-| 张辽 | 基础 | 7 | 威震逍遥津：出牌含对子，+30点数。 |
-| 公孙瓒 | 换牌 | 8 | 白马义从：每关换牌次数 +1。 |
-| 庞统 | 规则 | 12 | 连环奇谋：三个不同点数，排序后相邻间隔至多2，也可组成连阵。 |
-| 董卓 | 加压 | 9 | 暴政压阵：选择加压的关卡，当前倍率 ×1.25。 |
-| 鲁肃 | 经济 | 9 | 屯粮济军：每持有5军资，+1倍率，上限 +8。 |
 | 荀彧 | 精简 | 8 | 王佐简兵：牌库少于36张时，每少一张，+6点数。 |
+| 周瑜 | 兵种 | 10 | 出牌至少两张同兵种，+7倍率。 |
+| 貂蝉 | 逐牌 | 10 | 每张谋牌计分时，+2倍率。 |
 | 孙策 | 爆发 | 12 | 江东同袍：三张牌同兵种，当前倍率 ×1.8。 |
+| 赵云 | 成长 | 10 | 打出连阵或同袍连阵，赵云永久 +2 倍率。 |
 
-完整计分、经济、整编与关卡规则见 GAME_DESIGN.md。名称印章和牌面使用代码排版；当前像素素材位于 `apps/playtest/public/assets/`。
+## 三套发动机
 
-## 连锁将星与品质
+- **对子追击**：关羽成长，张飞启动重触发，马超连续追击，陆逊放大每次追加。选牌优先寻找对子。
+- **低点精兵**：刘备让低点牌产生价值，诸葛亮重复最右侧核心牌，曹操用换牌积累军资，荀彧从裁军中成长。改牌优先保留和复制低点牌、删除无关牌。
+- **同袍改编**：周瑜提供两张同兵种的稳定收益，貂蝉强化谋牌，孙策放大三张同兵种，赵云从同袍连阵持续成长。改牌优先集中兵种与连续点数。
 
-马超（名将，12军资）：重触发后35%追加，单手最多3次。陆逊（传奇，16军资）：每次成功追加当前倍率×1.5。两者与张飞／诸葛亮及逐牌效果配合。
-
-传奇：诸葛亮、吕布、陆逊。名将：张飞、赵云、貂蝉、庞统、孙策、马超。其余为良将。按品质抽取后在可用将星中均匀选择，详见 GAME_DESIGN。
+战后只随机揭晓一种整编方式，再由玩家选择作用目标。完整计分、经济、整编和关卡规则见 [GAME_DESIGN.md](GAME_DESIGN.md)。
